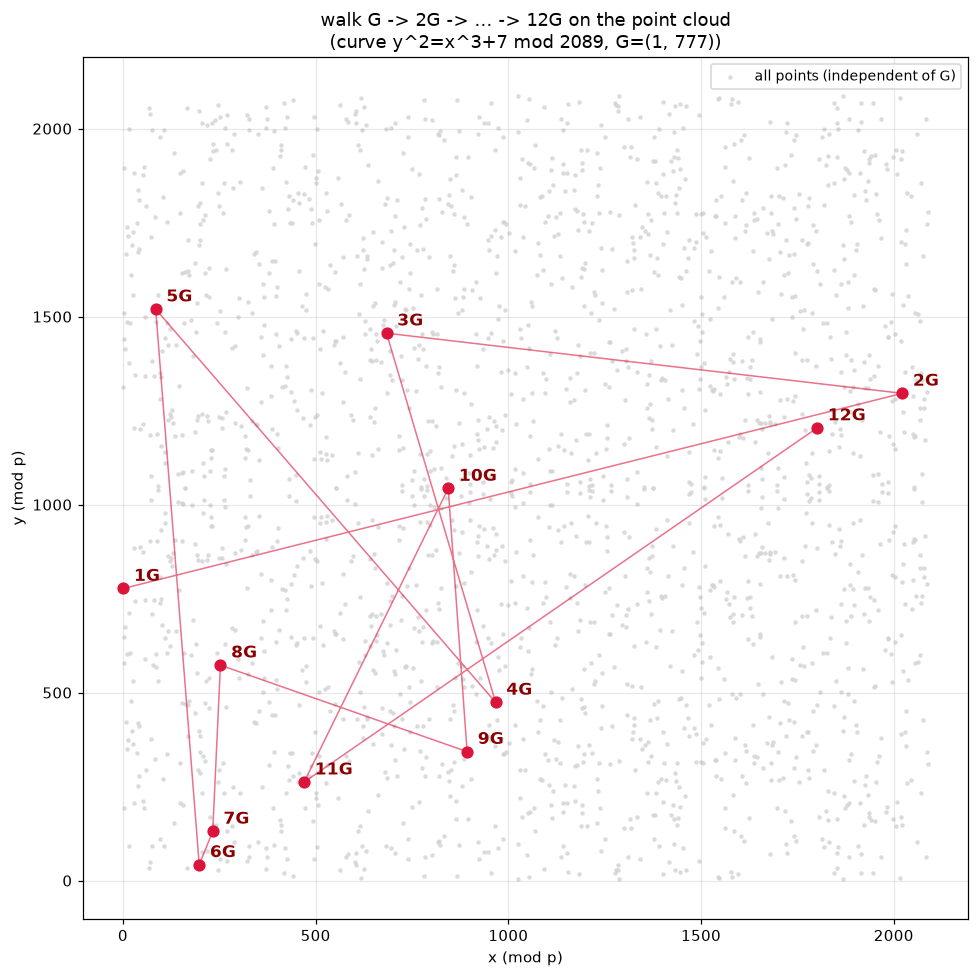
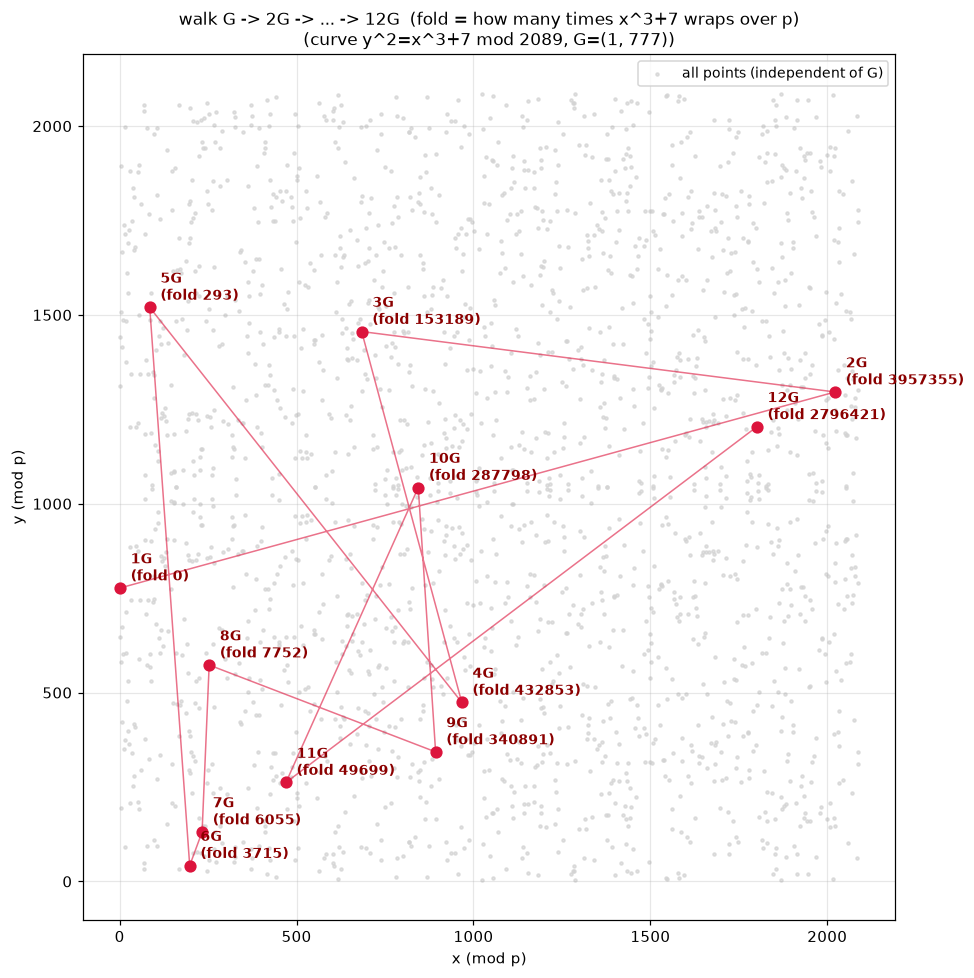
Annotate walk plot with fold counts (x^3+7)//p
每个 kG 点标注折叠次数，展示折叠次数范围 0~p² 但与步数顺序无关

Claude-Session: https://claude.ai/code/session_01L2mdxYHZp8riraaAemwXkL

diff --git a/ecc-playground/plot_walk.py b/ecc-playground/plot_walk.py
@@ -21,7 +21,8 @@ walk = []
 P = None
 for k in range(1, STEPS + 1):
     P = curve.add(P, G)
-    walk.append((k, P[0], P[1]))
+    fold = (P[0]**3 + 7) // p          # x^3+7 跳过了多少个 p 的倍数
+    walk.append((k, P[0], P[1], fold))
 
 fig, ax = plt.subplots(figsize=(9, 9))
 ax.scatter(xs, ys, s=4, color="lightgray", alpha=0.7, label="all points (independent of G)")
@@ -30,19 +31,19 @@ wx = [w[1] for w in walk]
 wy = [w[2] for w in walk]
 # 连线（按步数顺序）
 ax.plot(wx, wy, "-", color="crimson", lw=1.0, alpha=0.6)
-for k, x, y in walk:
+for k, x, y, fold in walk:
     ax.plot(x, y, "o", color="crimson", ms=7)
-    ax.annotate(f"{k}G", (x, y), textcoords="offset points",
-                xytext=(7, 5), fontsize=11, color="darkred", weight="bold")
+    ax.annotate(f"{k}G\n(fold {fold})", (x, y), textcoords="offset points",
+                xytext=(7, 5), fontsize=9, color="darkred", weight="bold")
 
-ax.set_title(f"walk G -> 2G -> ... -> {STEPS}G on the point cloud\n"
-             f"(curve y^2=x^3+7 mod {p}, G={G})", fontsize=12)
+ax.set_title(f"walk G -> 2G -> ... -> {STEPS}G  (fold = how many times x^3+7 wraps over p)\n"
+             f"(curve y^2=x^3+7 mod {p}, G={G})", fontsize=11)
 ax.set_xlabel("x (mod p)"); ax.set_ylabel("y (mod p)")
 ax.legend(loc="upper right", fontsize=9)
 ax.grid(alpha=0.3)
 plt.tight_layout()
 plt.savefig("ecc_walk.png", dpi=110, bbox_inches="tight")
 print("saved ecc_walk.png")
-print("\n步数顺序的落点：")
-for k, x, y in walk:
-    print(f"  {k:2d}G = ({x:4d}, {y:4d})")
+print("\n步数顺序的落点（含折叠次数 = (x^3+7)//p）：")
+for k, x, y, fold in walk:
+    print(f"  {k:2d}G = ({x:4d}, {y:4d})   x^3+7 折叠 {fold:>9} 次   (p^2={p*p})")
